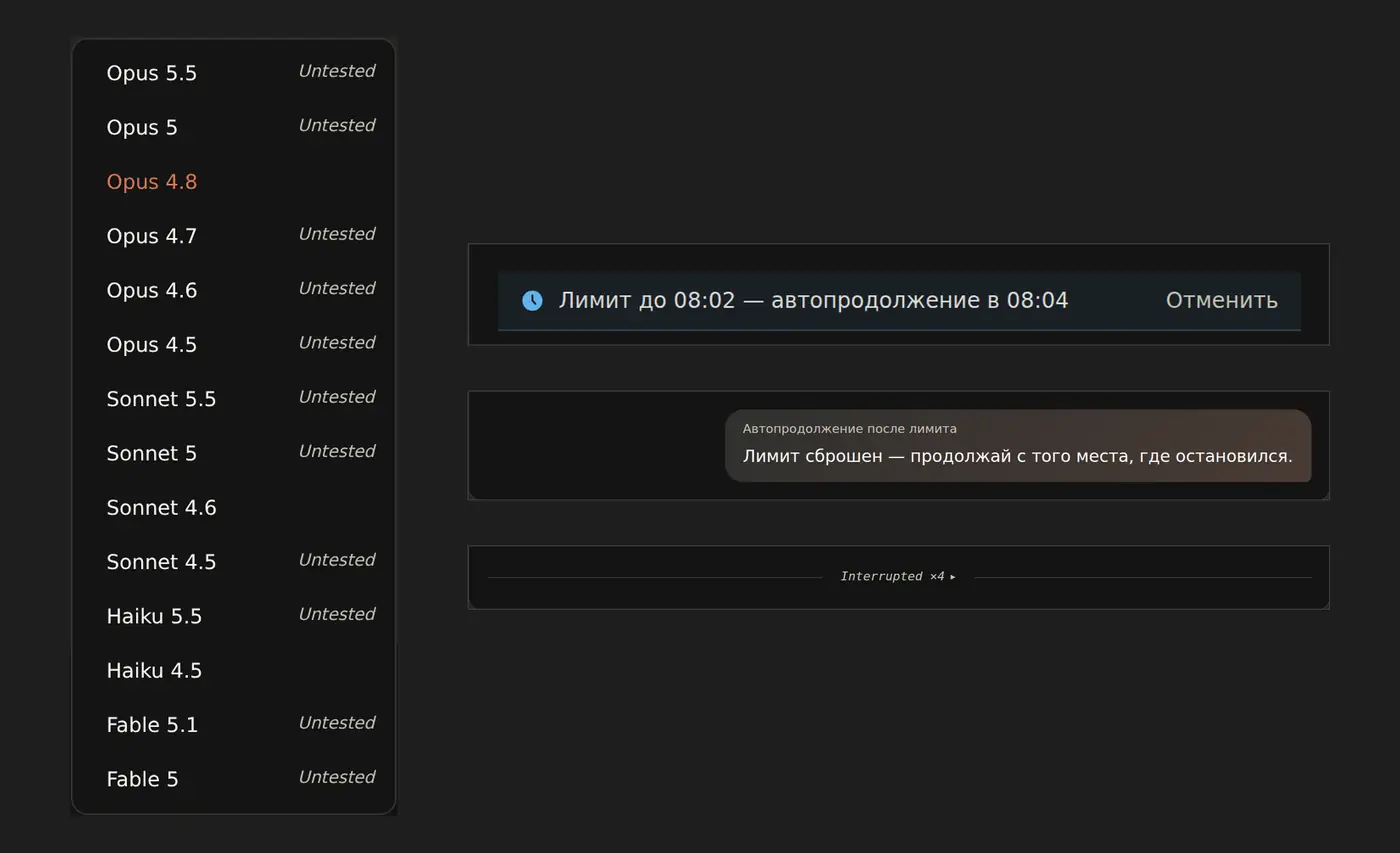
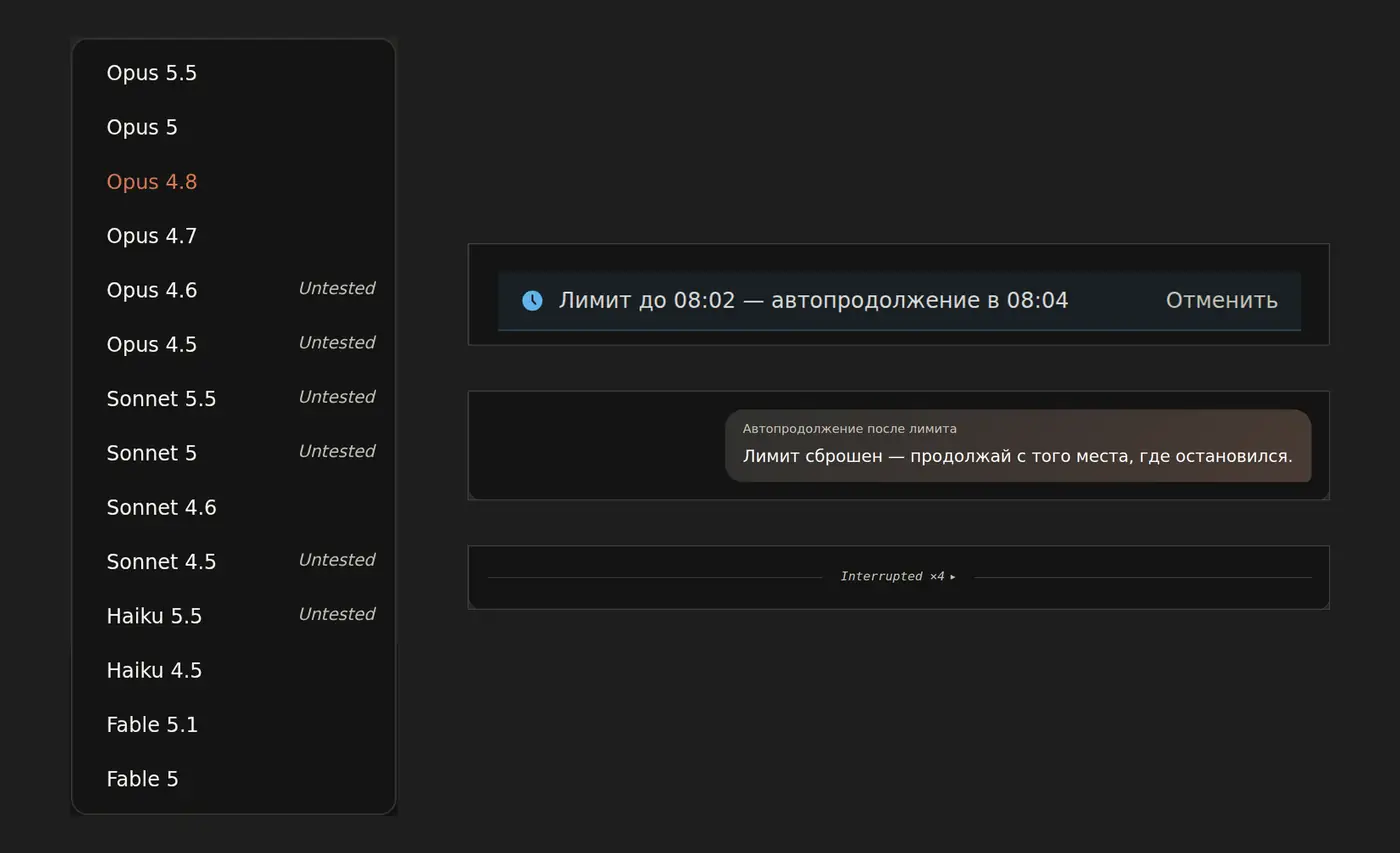
fix(landing): re-shoot the model-menu slide after the Untested fix
Verified models (Opus 5.5, Fable 5.1, ...) no longer carry the
"Untested" label since #379; shot-fresh.webp is re-captured (model menu
crop only, dark theme) and its RU/EN alt text updated. 21 KB WebP.

diff --git a/landing-legacy/site/index.html b/landing-legacy/site/index.html
@@ -662,7 +662,7 @@
         <div class="carousel-viewport">
           <div class="carousel-track" aria-live="off">
             <figure class="carousel-slide" role="group" aria-roledescription="slide" aria-label="1 из 6"><div class="carousel-img"><img src="/img/aura-hero.webp" width="1400" height="853" alt="Экран новой сессии Aura Companion: список сессий, поле задачи, переключатель Claude Code / Codex и тумблер Council Mode" fetchpriority="high" decoding="async"></div><figcaption class="carousel-caption">Новая сессия: выбор Claude Code или Codex и включение Council Mode — в браузере, в том числе с телефона</figcaption></figure>
-            <figure class="carousel-slide" role="group" aria-roledescription="slide" aria-label="2 из 6" aria-hidden="true"><div class="carousel-img"><img data-src="/img/shot-fresh.webp" width="1400" height="853" alt="Слева список моделей, где непроверенные модели (Opus 5.5, Fable 5.1 и другие) помечены Untested; справа баннер «Лимит до 08:02 — автопродолжение в 08:04», сообщение «Лимит сброшен — продолжай с того места, где остановился» и свёрнутая строка «Interrupted ×4»" decoding="async"></div><figcaption class="carousel-caption">Свежее: непроверенные модели помечены «Untested»; лимит → автопродолжение по таймеру; серия перезапусков свёрнута в одну строку (демо-данные)</figcaption></figure>
+            <figure class="carousel-slide" role="group" aria-roledescription="slide" aria-label="2 из 6" aria-hidden="true"><div class="carousel-img"><img data-src="/img/shot-fresh.webp" width="1400" height="853" alt="Слева список моделей, где модели, которые ещё не проверены на этой установке (например, Opus 4.6 и Sonnet 5.5), помечены Untested, а проверенные — Opus 5.5, Fable 5.1 — без пометки; справа баннер «Лимит до 08:02 — автопродолжение в 08:04», сообщение «Лимит сброшен — продолжай с того места, где остановился» и свёрнутая строка «Interrupted ×4»" decoding="async"></div><figcaption class="carousel-caption">Свежее: непроверенные модели помечены «Untested»; лимит → автопродолжение по таймеру; серия перезапусков свёрнута в одну строку (демо-данные)</figcaption></figure>
             <figure class="carousel-slide" role="group" aria-roledescription="slide" aria-label="3 из 6" aria-hidden="true"><div class="carousel-img"><img data-src="/img/shot-findings.webp" width="1400" height="853" alt="Лента наблюдателя: проба связи на русском, затем находки карточками — STOP, WARN и INFO с уверенностью и ссылкой на файл и строки" decoding="async"></div><figcaption class="carousel-caption">Находки наблюдателя приходят карточками: уровень, уверенность, файл и строки (демо-данные)</figcaption></figure>
             <figure class="carousel-slide" role="group" aria-roledescription="slide" aria-label="4 из 6" aria-hidden="true"><div class="carousel-img"><img data-src="/img/council-overview.webp" width="1400" height="853" alt="Council Mode: слева чат основного агента, справа панель наблюдателя с находками NOTE и INFO от второй модели" decoding="async"></div><figcaption class="carousel-caption">Council Mode: справа — вторая модель, которая проверяет каждый шаг</figcaption></figure>
             <figure class="carousel-slide" role="group" aria-roledescription="slide" aria-label="5 из 6" aria-hidden="true"><div class="carousel-img"><img data-src="/img/shot-permissions.webp" width="1400" height="853" alt="Запросы разрешений: команда Bash и правки файлов показаны диффом, с кнопками «разрешить», «на сессию», «всегда» и «запретить»" decoding="async"></div><figcaption class="carousel-caption">Каждое действие агента под контролем: разрешить один раз, на сессию или всегда; правки видны диффом до применения (демо-данные)</figcaption></figure>

diff --git a/landing-legacy/site/en/index.html b/landing-legacy/site/en/index.html
@@ -662,7 +662,7 @@
         <div class="carousel-viewport">
           <div class="carousel-track" aria-live="off">
             <figure class="carousel-slide" role="group" aria-roledescription="slide" aria-label="1 of 6"><div class="carousel-img"><img src="/img/aura-hero.webp" width="1400" height="853" alt="Aura Companion new-session screen: session list, task box, Claude Code / Codex switch and the Council Mode toggle" fetchpriority="high" decoding="async"></div><figcaption class="carousel-caption">New session: pick Claude Code or Codex and switch on Council Mode — in the browser, phone included</figcaption></figure>
-            <figure class="carousel-slide" role="group" aria-roledescription="slide" aria-label="2 of 6" aria-hidden="true"><div class="carousel-img"><img data-src="/img/shot-fresh.webp" width="1400" height="853" alt="Left: the model list, with not-yet-verified models (Opus 5.5, Fable 5.1 and others) marked Untested; right: a banner &quot;limit until 08:02 — auto-resume at 08:04&quot;, the automatic &quot;limit reset, continue where you left off&quot; message, and a collapsed &quot;Interrupted ×4&quot; row" decoding="async"></div><figcaption class="carousel-caption">New: unverified models are marked "Untested"; a usage limit triggers a timed auto-resume; a run of restarts collapses into one row (demo data)</figcaption></figure>
+            <figure class="carousel-slide" role="group" aria-roledescription="slide" aria-label="2 of 6" aria-hidden="true"><div class="carousel-img"><img data-src="/img/shot-fresh.webp" width="1400" height="853" alt="Left: the model list, with models not yet verified on this install (for example Opus 4.6 and Sonnet 5.5) marked Untested, while verified ones such as Opus 5.5 and Fable 5.1 carry no label; right: a banner &quot;limit until 08:02 — auto-resume at 08:04&quot;, the automatic &quot;limit reset, continue where you left off&quot; message, and a collapsed &quot;Interrupted ×4&quot; row" decoding="async"></div><figcaption class="carousel-caption">New: unverified models are marked "Untested"; a usage limit triggers a timed auto-resume; a run of restarts collapses into one row (demo data)</figcaption></figure>
             <figure class="carousel-slide" role="group" aria-roledescription="slide" aria-label="3 of 6" aria-hidden="true"><div class="carousel-img"><img data-src="/img/shot-findings.webp" width="1400" height="853" alt="Observer feed: a liveness probe, then findings as cards — STOP, WARN and INFO with confidence and a file and line reference" decoding="async"></div><figcaption class="carousel-caption">The observer's findings arrive as cards: severity, confidence, file and lines (demo data)</figcaption></figure>
             <figure class="carousel-slide" role="group" aria-roledescription="slide" aria-label="4 of 6" aria-hidden="true"><div class="carousel-img"><img data-src="/img/council-overview.webp" width="1400" height="853" alt="Council Mode: the main agent chat on the left, the observer panel on the right with NOTE and INFO findings from a second model" decoding="async"></div><figcaption class="carousel-caption">Council Mode: on the right, a second model that checks every step</figcaption></figure>
             <figure class="carousel-slide" role="group" aria-roledescription="slide" aria-label="5 of 6" aria-hidden="true"><div class="carousel-img"><img data-src="/img/shot-permissions.webp" width="1400" height="853" alt="Permission requests: a Bash command and file edits shown as diffs, with Allow, Allow for session, Allow always and Deny buttons" decoding="async"></div><figcaption class="carousel-caption">Every agent action stays under your control: allow once, for the session or always; edits are shown as a diff first (demo data)</figcaption></figure>
